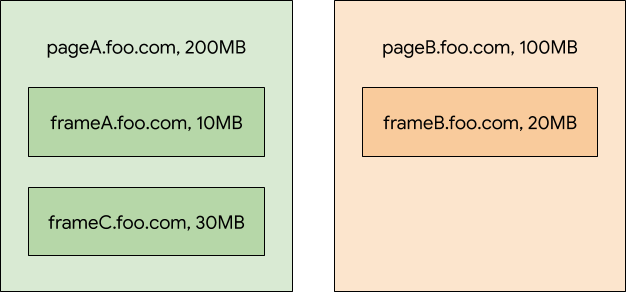
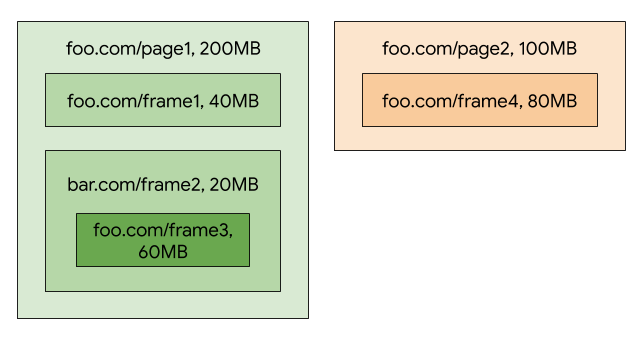
Change the security model to origin-based instead of agent-based.

diff --git a/explainer.md b/explainer.md
@@ -1,11 +1,13 @@
 # JavaScript agent memory API
 
+Last updated: 2019.05.31
+
 ## tl;dr
 
-We propose adding a `measureMemory` method to the performance API that estimates the amount of memory used by JavaScript objects of the current [JavaScript agent](https://html.spec.whatwg.org/multipage/webappapis.html#integration-with-the-javascript-agent-formalism).
+We propose adding a `measureMemory` method to the performance API that estimates the amount JavaScript objects that the calling context can access.
 The proposed API improves upon the existing non-standard `performance.memory` API in the following ways:
 
-- **better security and privacy**: only objects that the current JavaScript agent can access are accounted. No size information leaks from foreign origin contexts and resources;
+- **better security and privacy**: only objects that the current [JavaScript agent](https://html.spec.whatwg.org/multipage/webappapis.html#integration-with-the-javascript-agent-formalism) can access are accounted. No size information leaks from foreign origin contexts and resources;
 - **promise-based interface**: it allows the implementation to do more work on demand without janking the web page. No overhead for web pages that do not use the API;
 - **stable results**: other JavaScript agents that happen to share the same heap due to implementation details of the browser do not affect the results;
 - optional support for **per-frame memory** breakdown of the result;
@@ -84,7 +86,7 @@ We can change the name to `performance.measureMemoryUASpecific` if it is critica
 The API consists of a single method `performance.measureMemory` that accepts an optional argument indicating whether to include per-frame sizes or not.
 [We can change the name to `performance.measureMemoryUASpecific` if it is critical to highlight that the results are not comparable for different browsers]
 
-By default the method estimates the total size of all objects in the JavaScript heap that the current calling context can access:
+By default the method estimates the total size of all objects on the JavaScript heap that the current calling context can access:
 
 ```javascript
 const result = await performance.measureMemory();
@@ -94,8 +96,8 @@ console.log(result);
 // Console output:
 {
   total: {
-    jsMemoryEstimate: 240*MB,
-    jsMemoryRange: [120*MB, 300*MB]
+    jsMemoryEstimate: 200*MB,
+    jsMemoryRange: [100*MB, 300*MB]
   }
 }
 
@@ -103,10 +105,21 @@ console.log(result);
 
 We do not require the result to be precise.
 The implementation should return an estimate and a range of possible values.
-If the heap contains only one JavaScript agent, then the result is equal to the heap size i.e. similar to the existing `performance.memory.usedJSHeapSize`.
+If the heap contains a single JavaScript agent consisting of same-origin realms, then the result is equal to the heap size i.e. similar to the existing `performance.memory.usedJSHeapSize`.
 The same is the case when the API is invoked in a worker because each worker has its own heap.
 
-If the result may leak information from a foreign origin, then the promise is rejected with a `SecurityError` exception:
+If there are multiple JavaScript agents or different-origin realms, then the API accounts only the objects of the same-origin realms that the current context can synchronously script with.
+We illustrate that on an example with two web pages and four iframes shown in figure below.
+Let’s assume that the top-level browsing contexts `foo.com/page1` and `foo.com/page2` are not related, i.e. one is not an opener of another. Thus there are two JavaScript agents consisting of six realms with total memory usage of 500MB
+
+![Figure 1. Two web pages with four iframes and their memory usage.](/example.png)
+
+Invoking the API in the context of the `frame1` accounts only the objects of the `page1` and the `frame1`.
+The result will be around 240MB.
+Objects of the `page2` and the `frame4` are skipped because they belong to a different JavaScript agent.
+The `frame3` belongs to the same JavaScript agent and has the same origin as the `frame1`, but it is skipped because it is embedded in a foreign-origin frame.
+
+The implementation is allowed to reject the promise with a `SecurityError` exception if it cannot guarantee that the result does not leak information from a foreign origin:
 
 ```javascript
 try {
@@ -122,13 +135,7 @@ try {
 ### Optional per-frame sizes
 
 The caller can request per-frame sizes by passing a `{detailed: true}` option.
-We explain this case on an example with two web pages and three iframes shown in figure below.
-Let’s assume that the top-level browsing contexts `pageA.foo.com` and `pageB.foo.com` are not related, i.e. one is not an opener of another.
-Thus there are two JavaScript agents consisting of five JavaScript [realms](https://tc39.github.io/ecma262/#sec-code-realms) with the total memory usage of 360MB.
-
-![Figure 1. Two web pages with three iframes and their memory usage.](/example.png)
-
-Invocation of the API in `frameA` returns the size estimates for the three JavaScript realms in the current agent:
+Invocation of the API in the `frame1` of the previous example returns the size estimates for the same-origin frames accessible from the `frame1`:
 
 ```javascript
 // In frameA.foo.com context:
@@ -139,43 +146,26 @@ console.log(result);
 // Console output:
 {
   current: {
-    url: 'https://frameA.foo.com/',
-    jsMemoryEstimate: 10*MB,
-    jsMemoryRange: [5*MB, 185*MB]
+    url: 'https://foo.com/frame1',
+    jsMemoryEstimate: 30*MB,
+    jsMemoryRange: [20*MB, 300*MB]
   },
   other: [
     {
-      url: 'https://pageA.foo.com/',
-      jsMemoryEstimate: 200*MB,
-      jsMemoryRange: [100*MB, 280*MB]
-    },
-    {
-      url: 'https://frameC.foo.com/',
-      jsMemoryEstimate: 30*MB,
-      jsMemoryRange: [15*MB, 195*MB]
+      url: 'https://foo.com/page1',
+      jsMemoryEstimate: 170*MB,
+      jsMemoryRange: [80*MB, 300*MB]
     }
   ],
-  total: { // current + related: pageA, frameA, frameC
-    jsMemoryEstimate: 240*MB,
-    jsMemoryRange: [120*MB, 300*MB]
+  total: { // frame1 + page1
+    jsMemoryEstimate: 100*MB,
+    jsMemoryRange: [100*MB, 300*MB]
   }
 }
 ```
 
-In order to compute the estimate the implementation has to attribute each heap object to its realm.
-For some heap objects this may be computationally expensive or even impossible (e.g. for shared objects).
-The implementation is free to choose any heuristic for attributing such objects.
-
-In the given example we assume that the implementation can infer the realm for 50% of the heap.
-Then 180MB are unattributed. We know that `frameA` uses at least 5MB and at most 185MB.
-The implementation may decide to estimate the size of `frameA` by distributing the unattributed 180MB proportionally to the attributed frame sizes:
-
-```javascript
-estimateFrameA = 5 + 180 * (5 / (5 + 100 + 15 + 50 + 10)) = 10
-```
-
 A worker agent has a single realm.
-Thus, the “other” field of the result is empty for workers.
+Thus, the `other` field of the result is empty for workers.
 The current and the total fields have matching values.
 For most implementation there will be no estimation error because each worker gets it own heap.
 
@@ -216,8 +206,8 @@ try {
 
 ## Security Considerations
 
-An implementation of the API should account only the JavaScript objects that the calling JavaScript agent can access.
-That is the objects that can be read or called from one of the realms of the agent.
+An implementation of the API should account only the JavaScript objects that the calling context can access.
+That is the objects that can be read or called from the current realm.
 Additionally, the implementation is free to account internal system objects on the JavaScript heap that are necessary for supporting the accounted JavaScript objects (e.g. backing stores of arrays, hidden classes, closure environments, code objects) as long as that does not leak foreign origin information.
 
 If the implementation cannot guarantee that the result is not tainted with foreign origin information, then it is allowed to throw a `SecurityError` exception.
@@ -225,12 +215,15 @@ The implementation is also allowed to add noise to the result and limit the rate
 
 In the rest of this section we look at two potential sources of information leak and show how an implementation can address them.
 
-**Source 1: other JavaScript agents.**
-If the implementation creates a separate JavaScript heap for each JavaScript agent, then this is not an issue.
-Otherwise, there are two solutions:
-- throw a `SecurityError` exception if two or more different agents were ever loaded on the current heap.
+**Source 1: other JavaScript agents and foreign-origin realms.**
+If the implementation creates a separate JavaScript heap for each JavaScript agent and the current JavaScript agent consists of only the same-origin realms, then this is not an issue.
+Otherwise, the following solutions are possible
+- throw a `SecurityError` exception if two or more different origins were ever loaded on the current heap.
 Note this produces useful results for web pages that do not embed different-origin iframes.
 - iterate the heap and account only the objects that are accessible from the calling agent.
+- keep track of realm sizes at object allocation.
+- segregate objects on the heap by realms.
+
 Note that objects shared between agents must be reported as if they were private.
 In other words, an implementation must not leak information of whether an object is shared or not.
 
@@ -246,10 +239,9 @@ If resources are allocated on the JavaScript heap, then there are two solutions:
 The performance of the API depends on how the information leak sources described in the previous section are handled.
 If resources of platform objects are allocated on JavaScript heap, then the implementation will have to iterate the heap or throw a `SecurityError` exception.
 Otherwise, we have the following cases:
-- **[fast]** *the total size is requested and the heap contains only one JavaScript agent*: in this case the implementation can simply return the heap size which is usually available as a counter.
+- **[fast]** *the total size is requested and the heap contains only one JavaScript agent consisting of same-origin realms *: in this case the implementation can simply return the heap size which is usually available as a counter.
 - **[fast]** *the API is invoked in a worker*: since each worker gets its own heap and consists of a single realm, both total size and detailed versions of the API will be fast.
-- **[slow]** *the total size is requested and the heap contains multiple same-site JavaScript agents*: this case may require heap iteration or the implementation throws a `SecurityError` exception. This case is possible with site-isolation.
-- **[slow]** *the total size is requested and the heap contains multiple different-site JavaScript agents*: this case may require heap iteration or the implementation throws a `SecurityError` exception.
+- **[slow]** *the total size is requested and the heap contains different-origin realms*: this case may require heap iteration or the implementation throws a `SecurityError` exception.
 - **[slow]** *per-frame sizes are requested in a window agent*: this case may require heap iteration or the implementation throws a NotSupportedError exception.
 
 In the slow cases, it may be possible to fold the heap iteration into the next garbage collection and thus reduce the cost of the heap iteration. If it is not possible, then it is probably better to throw an exception.
